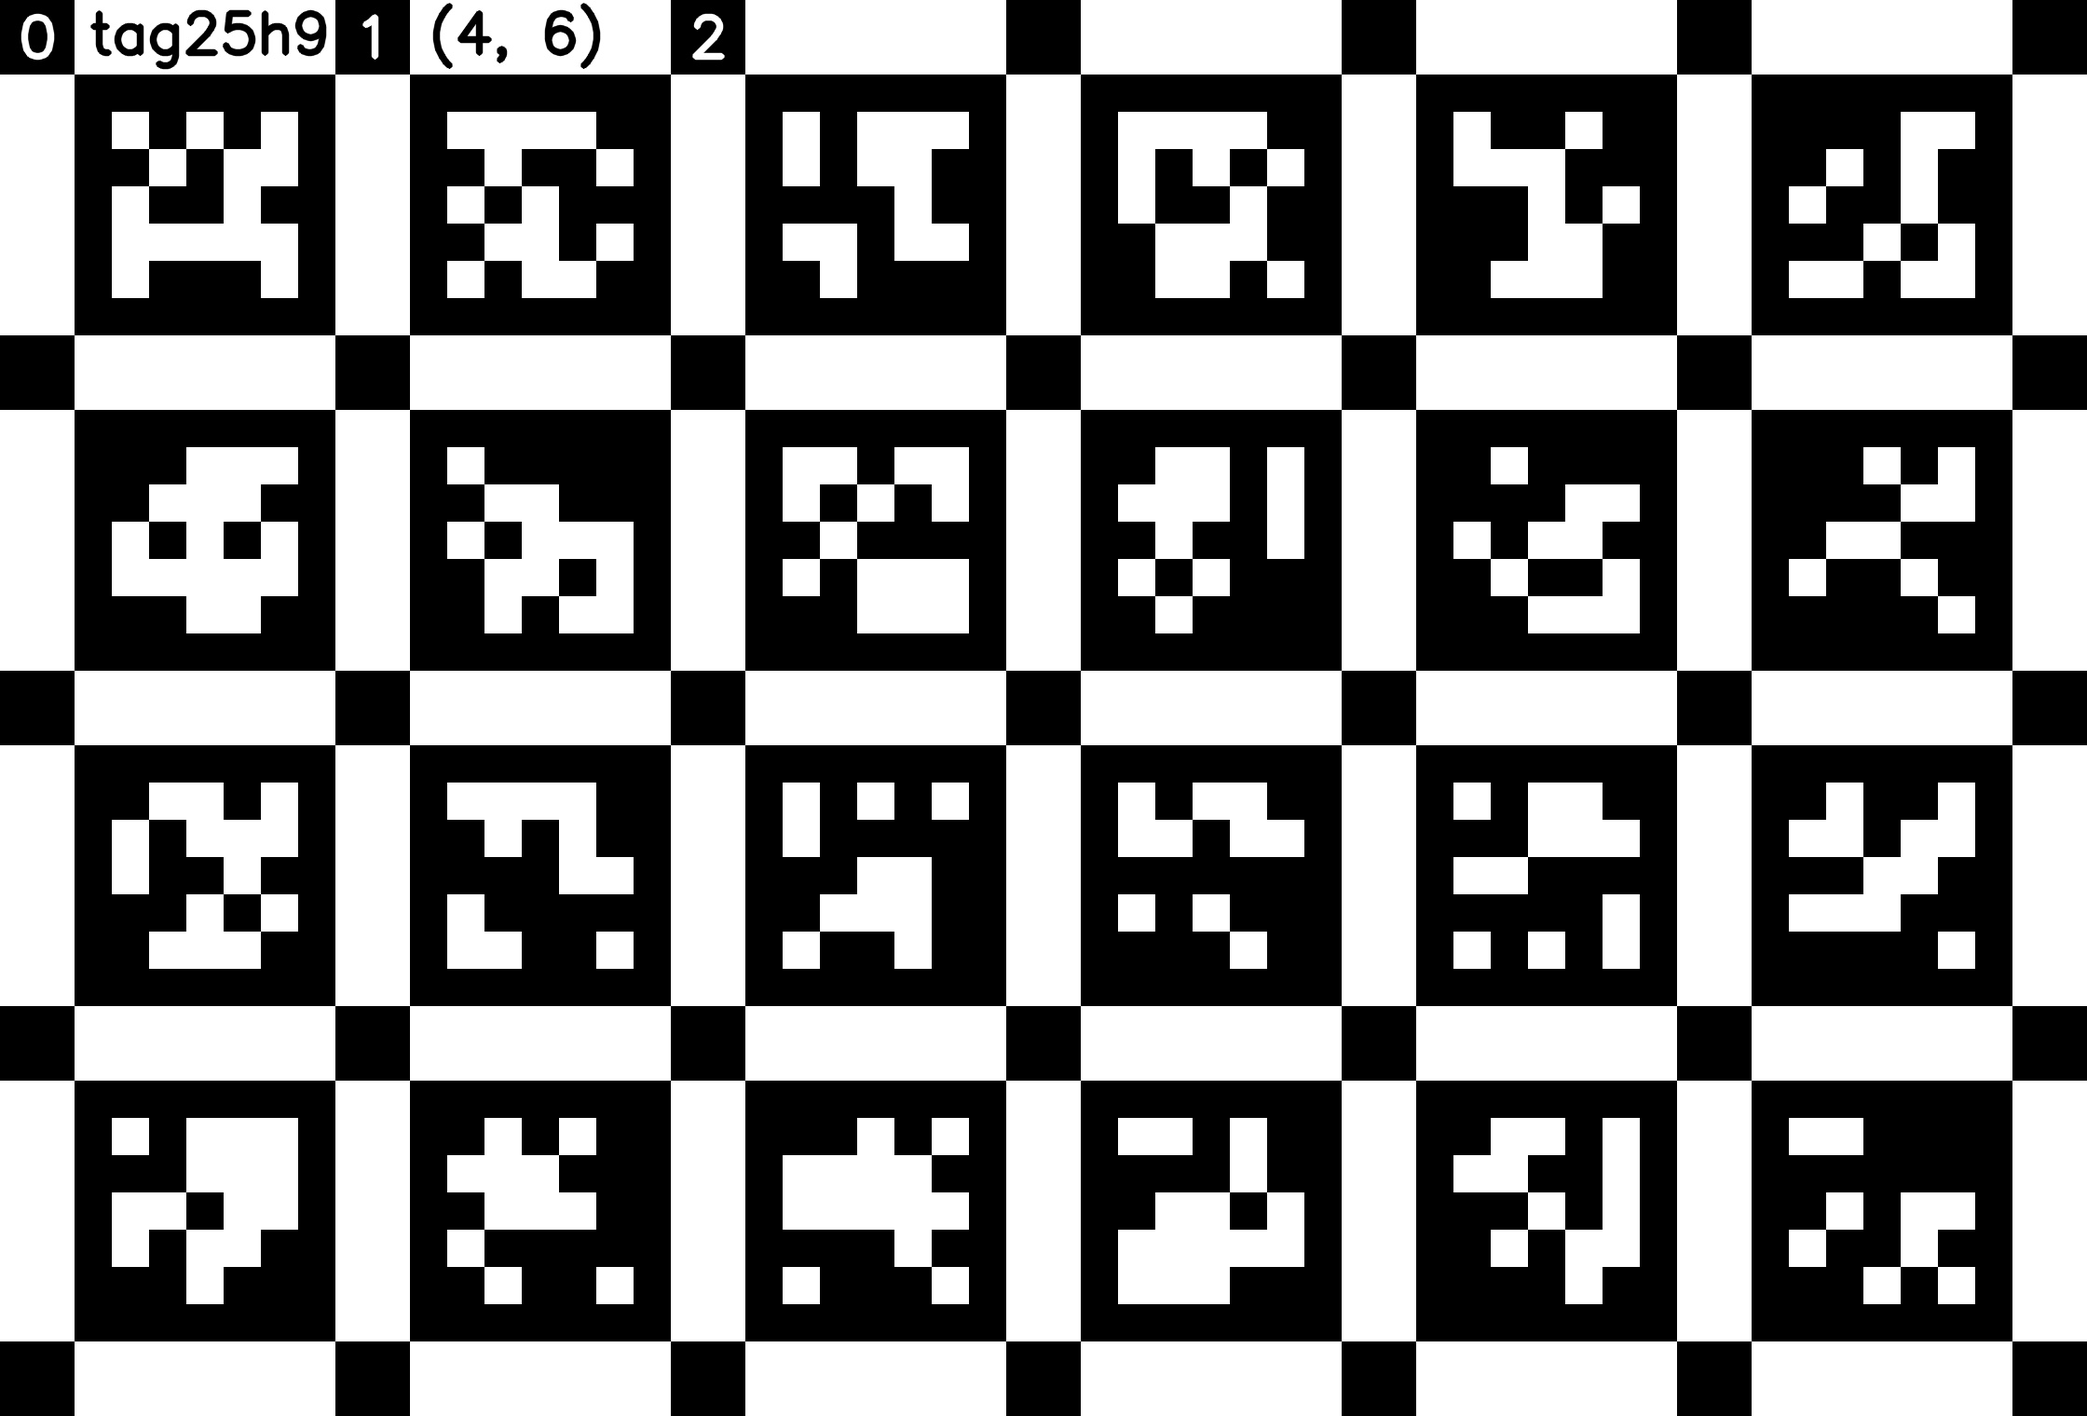
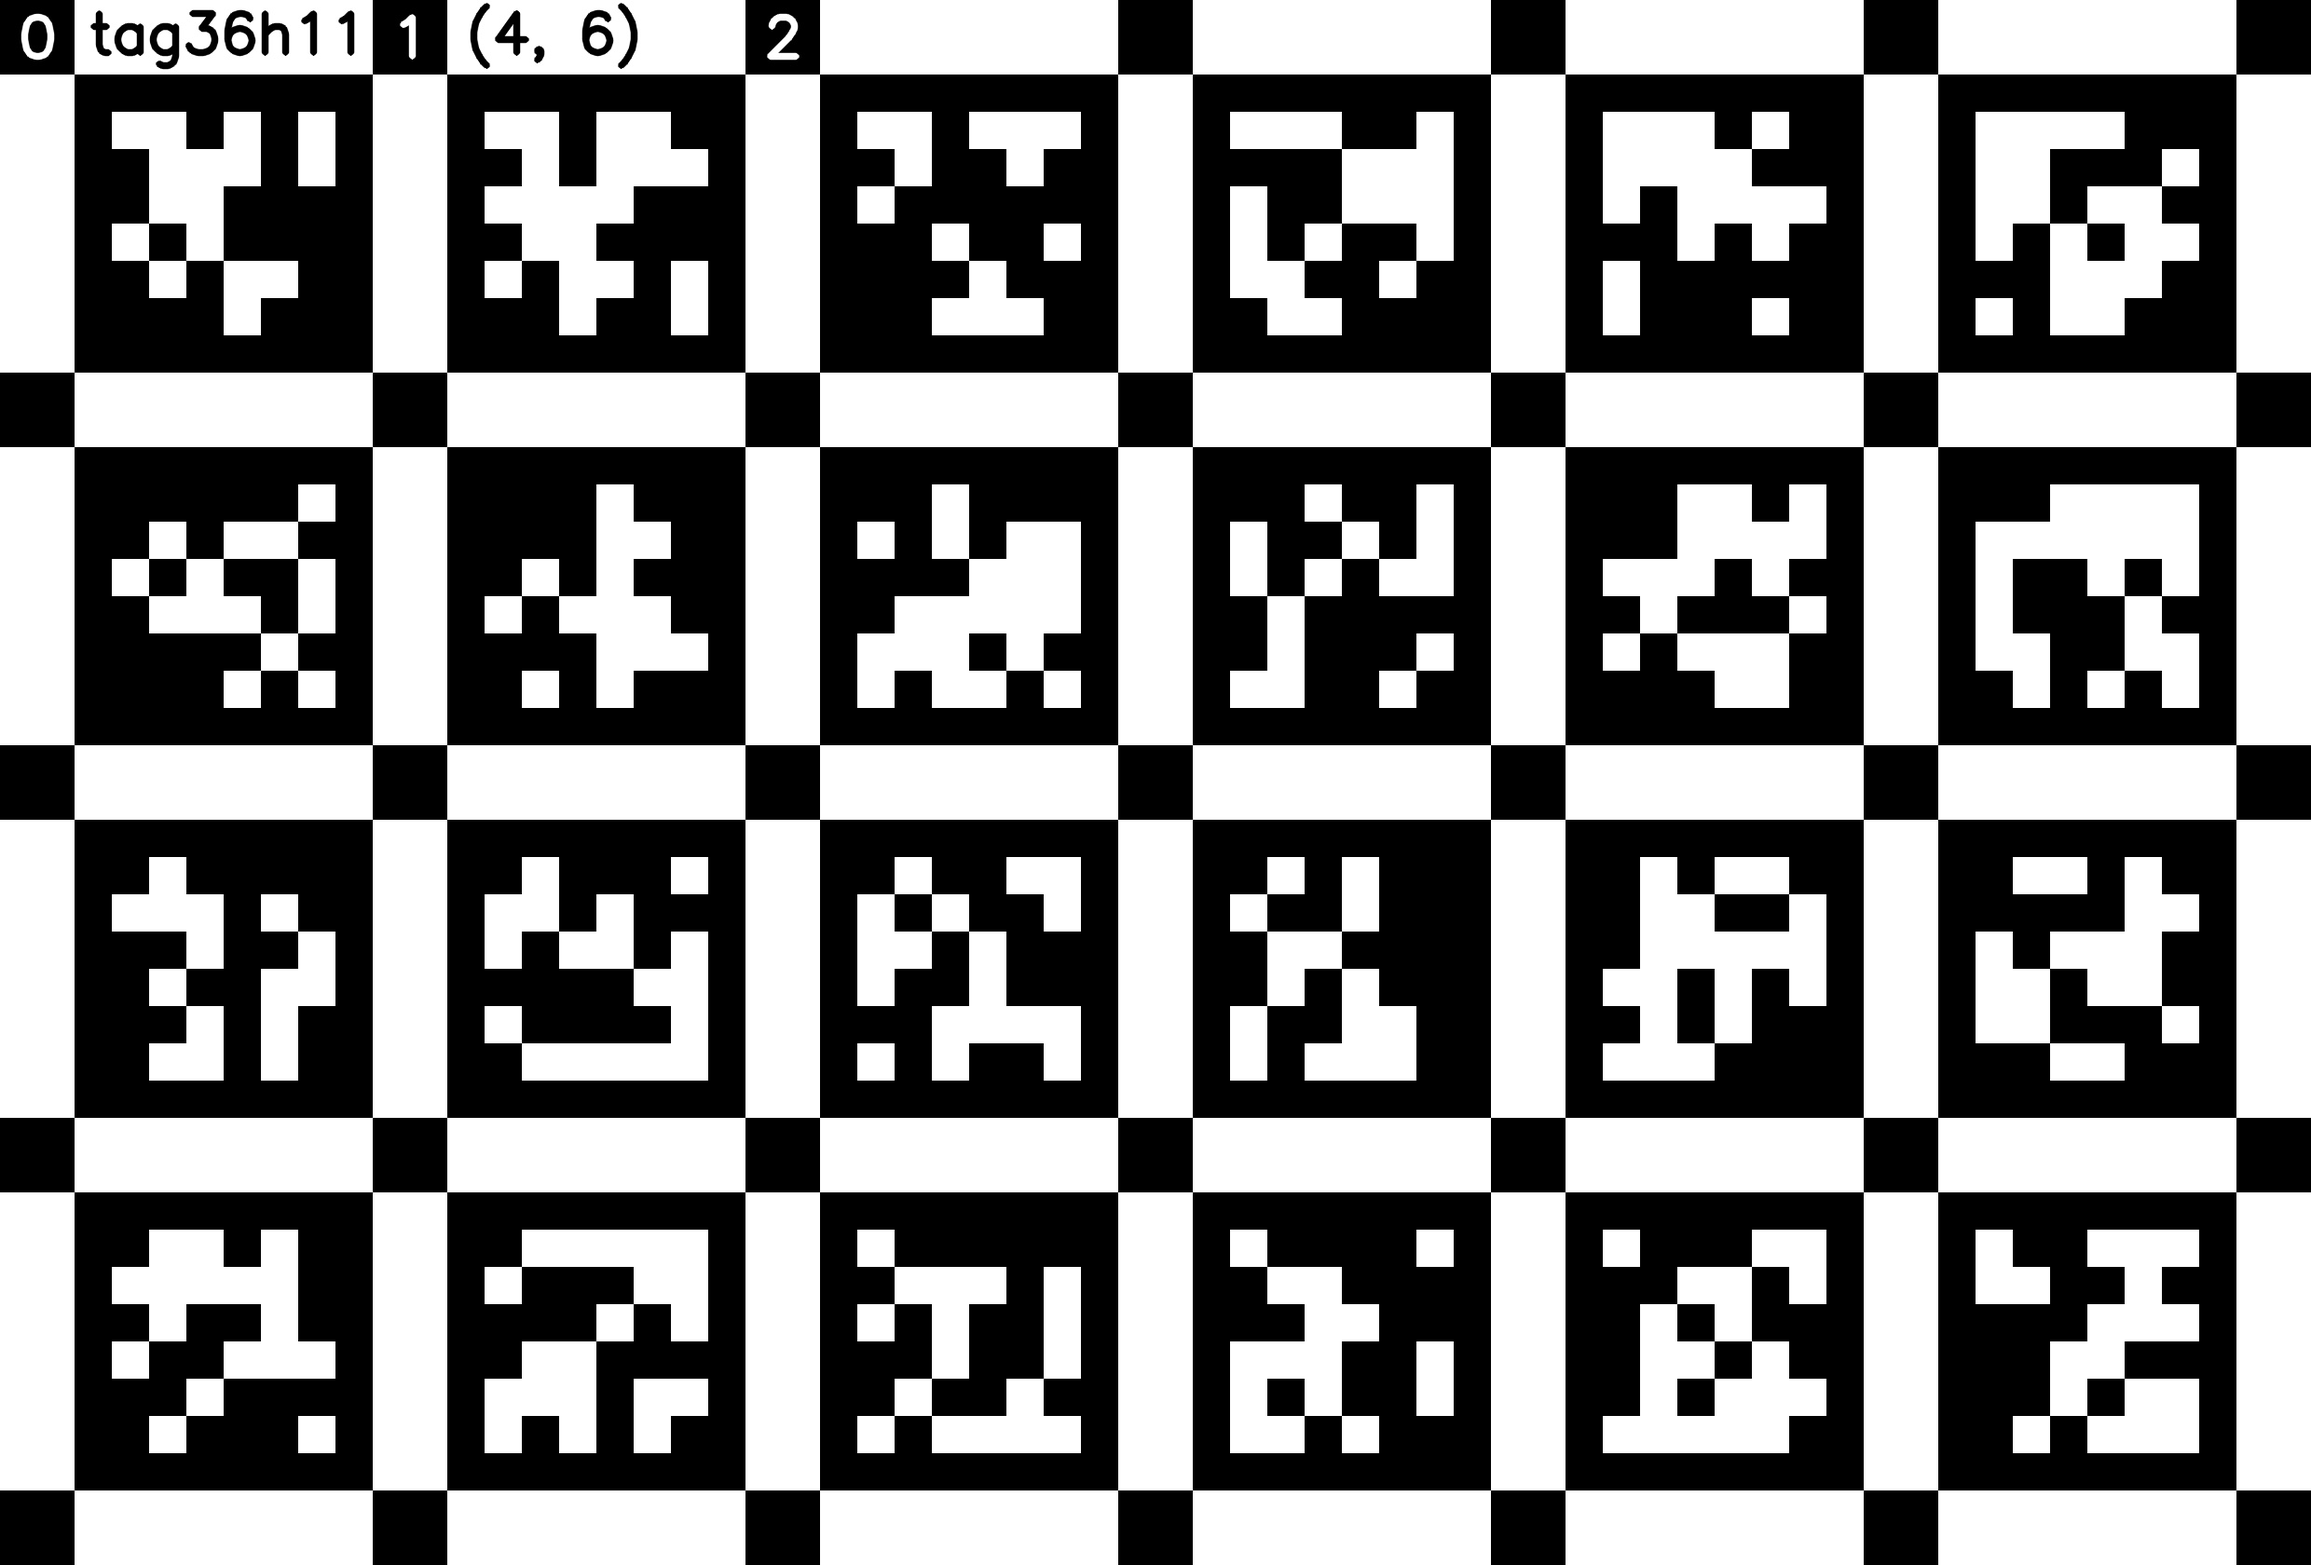
Added Gaze Detection via Pupil API

diff --git a/CameraManager.py b/CameraManager.py
@@ -14,7 +14,6 @@ class CameraManager():
         self.m_new_camera_matrix = None
         self.m_distortion_coefficient = None
         self.m_roi = None
-        self.s_calibration_file = "camera.npy"
 
         self.b_is_applying_calibration = False
         self.b_is_applying_april_detection = False
@@ -31,10 +30,21 @@ class CameraManager():
         self.qt_calibrate_timer.setSingleShot(True)
         self.qt_calibrate_timer.timeout.connect(self.calibrateCamera)
 
-        self.detector = pupil_apriltags.Detector("tag25h9")
+        self.detector = pupil_apriltags.Detector("tag36h11")
+
+        self.s_manager_name = "CameraManager"
+
+        self.world_origin_coords = [[None, None], [None, None]]
+        self.b_world_complete = False
+
+        self.r_vec = None
+        self.t_vec = None
+        self.r_mat = None
+
+        self.proj_mat = None
 
     def calibrateCamera(self):
-        print(f"CameraManager::calibrateCamera - step: {self.calibation_frame_count}")
+        print(f"{self.s_manager_name}::calibrateCamera - step: {self.calibation_frame_count}")
         try:
             ret, corners = cv2.findChessboardCorners(self.m_current_frame, (9, 6), None)
 
@@ -95,32 +105,36 @@ class CameraManager():
 
     def setCalibration(self, calibration: bool):
         self.b_is_applying_calibration = calibration
-        print(f"CameraManager::setCalibration - Calibration is now {self.b_is_applying_calibration}")
+        print(f"{self.s_manager_name}::setCalibration - Calibration is now {self.b_is_applying_calibration}")
 
     def saveCameraCalibration(self):
         if self.m_new_camera_matrix is not None and self.m_camera_matrix is not None and self.m_distortion_coefficient is not None:
-            numpy.save(self.s_calibration_file + "_camera_matrix.npy", self.m_camera_matrix, allow_pickle=True)
-            numpy.save(self.s_calibration_file + "_new_camera_matrix.npy", self.m_new_camera_matrix, allow_pickle=True)
-            numpy.save(self.s_calibration_file + "_distortion_coefficient.npy", self.m_distortion_coefficient,
+            numpy.save(self.s_manager_name + "_camera_matrix.npy", self.m_camera_matrix, allow_pickle=True)
+            numpy.save(self.s_manager_name + "_new_camera_matrix.npy", self.m_new_camera_matrix, allow_pickle=True)
+            numpy.save(self.s_manager_name + "_distortion_coefficient.npy", self.m_distortion_coefficient,
                        allow_pickle=True)
-            numpy.save(self.s_calibration_file + "_roi.npy", self.m_roi, allow_pickle=True)
-            print("CameraManager::saveCameraCalibration - Saved successfully.")
+            numpy.save(self.s_manager_name + "_roi.npy", self.m_roi, allow_pickle=True)
+            print(f"{self.s_manager_name}::saveCameraCalibration - Saved successfully.")
+            return True
         else:
-            print("CameraManager::saveCameraCalibration - Calibrate the camera before saving.")
+            print(f"{self.s_manager_name}::saveCameraCalibration - Calibrate the camera before saving.")
+            return False
 
     def loadCameraCalibration(self):
         try:
-            self.m_camera_matrix = numpy.load(self.s_calibration_file + "_camera_matrix.npy")
-            self.m_new_camera_matrix = numpy.load(self.s_calibration_file + "_new_camera_matrix.npy")
-            self.m_distortion_coefficient = numpy.load(self.s_calibration_file + "_distortion_coefficient.npy")
-            self.m_roi = numpy.load(self.s_calibration_file + "_roi.npy")
-            print("CameraManager::loadCameraCalibration - Loaded successfully.")
+            self.m_camera_matrix = numpy.load(self.s_manager_name + "_camera_matrix.npy")
+            self.m_new_camera_matrix = numpy.load(self.s_manager_name + "_new_camera_matrix.npy")
+            self.m_distortion_coefficient = numpy.load(self.s_manager_name + "_distortion_coefficient.npy")
+            self.m_roi = numpy.load(self.s_manager_name + "_roi.npy")
+            print(f"{self.s_manager_name}::loadCameraCalibration - Loaded successfully.")
+            return True
         except:
-            print("CameraManager::loadCameraCalibration - Failed to load Calibration Matrix")
+            print(f"{self.s_manager_name}::loadCameraCalibration - Failed to load Calibration Matrix")
+            return False
 
     def setAprilDetection(self, april : bool):
         self.b_is_applying_april_detection = april
-        print(f"CameraManager::setAprilDetection - Detection is now {self.b_is_applying_april_detection}")
+        print(f"{self.s_manager_name}::setAprilDetection - Detection is now {self.b_is_applying_april_detection}")
 
     def applyCalibrationMatrix(self):
         if self.b_is_applying_calibration:
@@ -133,8 +147,12 @@ class CameraManager():
 
     def detectAndShowAprilTag(self):
         # mcc = cv2.cvtColor(self.m_current_frame, cv2.COLOR_GRAY2RGB)
+        detection = self.detector.detect(self.m_current_frame)
+
+        self.world_origin_coords = numpy.zeros([4, 2], dtype = numpy.float32)
+        self.b_world_complete = False
+
         if self.b_is_applying_april_detection:
-            detection = self.detector.detect(self.m_current_frame)
             for result in detection:
                 (ptA, ptB, ptC, ptD) = result.corners
                 ptB = (int(ptB[0]), int(ptB[1]))
@@ -142,12 +160,35 @@ class CameraManager():
                 ptD = (int(ptD[0]), int(ptD[1]))
                 ptA = (int(ptA[0]), int(ptA[1]))
                 # draw the bounding box of the AprilTag detection
-                cv2.line(self.m_current_frame, ptA, ptC, (0, 255, 0), 10)
-                cv2.line(self.m_current_frame, ptB, ptD, (0, 255, 0), 10)
+                cv2.line(self.m_current_frame, ptA, ptC, (255, 255, 255), 10)
+                cv2.line(self.m_current_frame, ptB, ptD, (255, 255, 255), 10)
+
+                if len(detection) == 4:
+                    self.world_origin_coords[result.tag_id] = result.center
+
+            if len(detection) == 4:
+                world_object = numpy.array([
+                    [0, 0, 0],
+                    [0, 1, 0],
+                    [1, 0, 0],
+                    [1, 1, 0]
+                ], dtype=numpy.float32)
+                retval, self.r_vec, self.t_vec = cv2.solvePnP(world_object, self.world_origin_coords, self.m_camera_matrix, self.m_distortion_coefficient)
+                self.r_mat = numpy.array(cv2.Rodrigues(self.r_vec)[0])
+
+                #self.proj_mat = numpy.concatenate((self.r_mat, numpy.zeros([1, 3])))
+                self.proj_mat = numpy.concatenate((self.r_mat, self.t_vec.reshape(3, 1)), axis = 1)
+                self.proj_mat = numpy.concatenate((self.proj_mat, numpy.zeros([1, 4])))
+                self.proj_mat[3, 3] = 1.
+
+                print("uhm")
+
+
 
 class CoreManager(CameraManager):
     def __init__(self):
         super(CoreManager, self).__init__()
+        self.s_manager_name = "CoreManager"
         self.m_current_left = None
         self.m_current_right = None
         pass
@@ -166,4 +207,3 @@ class CoreManager(CameraManager):
 
     def getCurrentFrame(self):
         return [self.m_current_frame, self.m_current_right, self.m_current_left]
-

diff --git a/PupilCoreManager.py b/PupilCoreManager.py
@@ -3,7 +3,7 @@ Receive world camera data from Pupil using ZMQ.
 Make sure the frame publisher plugin is loaded and confugured to gray or rgb
 """
 import zmq
-from msgpack import unpackb, packb
+from msgpack import unpackb, packb, loads
 import numpy
 import cv2
 import warnings
@@ -17,8 +17,7 @@ from CameraManager import CoreManager
 class PupilCoreManager(CoreManager):
     def __init__(self):
         super(PupilCoreManager, self).__init__()
-
-        self.s_calibration_file = "PupilCore"
+        self.s_manager_name = "PupilCoreManager"
 
         self.context = zmq.Context()
         # open a req port to talk to pupil
@@ -40,6 +39,7 @@ class PupilCoreManager(CoreManager):
         self.sub.setsockopt(zmq.SNDHWM, 20)
         #self.sub.setsockopt(zmq.CONFLATE, 1)
         self.sub.setsockopt_string(zmq.SUBSCRIBE, "frame.")
+        self.sub.setsockopt_string(zmq.SUBSCRIBE, "gaze")
 
         # set subscriptions to topics
         # recv just pupil/gaze/notifications
@@ -56,8 +56,14 @@ class PupilCoreManager(CoreManager):
         self.pupil_thread = threading.Thread(target=self.ppc_thread_worker)
         self.pupil_thread.start()
 
-        self.loadCameraCalibration()
-        self.setCalibration(True)
+        if self.loadCameraCalibration():
+            self.setCalibration(True)
+
+        self.raw_x = 0
+        self.raw_y = 0
+        self.gaze_cam_3d_point = None
+        self.gaze_world_3d_point = None
+        self.confidence = 0
 
     def notify(self, notification):
         """Sends ``notification`` to Pupil Remote"""
@@ -77,7 +83,22 @@ class PupilCoreManager(CoreManager):
         in the payload dict with key: '__raw_data__' .
         """
         topic = self.sub.recv_string()
-        payload = unpackb(self.sub.recv(), raw=False)
+        payload = None
+        msg = None
+        if "gaze" in topic:
+            msg = self.sub.recv()
+            msg = loads(msg, raw=False)
+            self.raw_x, self.raw_y = msg["norm_pos"]
+            self.gaze_cam_3d_point = numpy.append(numpy.array(msg['gaze_point_3d']), numpy.array([1]))
+
+            if self.proj_mat is not None:
+                inv_proj_mat = numpy.linalg.inv(self.proj_mat)
+                cam_3d = self.gaze_cam_3d_point.T
+                self.gaze_world_3d_point = numpy.matmul(inv_proj_mat, cam_3d)
+
+            self.confidence = msg["confidence"]
+        else:
+            payload = unpackb(self.sub.recv(), raw=False)
         extra_frames = []
         while self.sub.get(zmq.RCVMORE):
             extra_frames.append(self.sub.recv())
@@ -96,7 +117,26 @@ class PupilCoreManager(CoreManager):
 
     def captureCurrentFrame(self):
         self.detectAndShowAprilTag()
+        self.showGaze()
         self.applyCalibrationMatrix()
+
+    def showGaze(self):
+        # draw confidence circle
+        cv2.circle(self.m_current_frame, (int(self.m_current_frame.shape[1] * self.raw_x),
+                                          self.m_current_frame.shape[0] - int(
+                                              self.m_current_frame.shape[0] * self.raw_y)),
+                              radius = int(15 * (2 - self.confidence)),
+                              color = (255, 255, 255),
+                              thickness = 3
+                              )
+
+        # draw gaze circle
+        cv2.circle(self.m_current_frame, (int(self.m_current_frame.shape[1] * self.raw_x),
+                                          self.m_current_frame.shape[0] - int(
+                                              self.m_current_frame.shape[0] * self.raw_y)),
+                   radius=10,
+                   color=(255, 255, 255),
+                   thickness=cv2.FILLED)
 
     def ppc_thread_worker(self):
         while True:

diff --git a/test.py b/test.py
@@ -1,0 +1,39 @@
+"""
+Receive data from Pupil using ZMQ.
+"""
+import zmq
+from msgpack import loads
+
+context = zmq.Context()
+# open a req port to talk to pupil
+addr = "127.0.0.1"  # remote ip or localhost
+req_port = "50020"  # same as in the pupil remote gui
+req = context.socket(zmq.REQ)
+req.connect("tcp://{}:{}".format(addr, req_port))
+# ask for the sub port
+req.send_string("SUB_PORT")
+sub_port = req.recv_string()
+
+# open a sub port to listen to pupil
+sub = context.socket(zmq.SUB)
+sub.connect("tcp://{}:{}".format(addr, sub_port))
+
+# set subscriptions to topics
+# recv just pupil/gaze/notifications
+#sub.setsockopt_string(zmq.SUBSCRIBE, "pupil.")
+sub.setsockopt_string(zmq.SUBSCRIBE, 'gaze')
+# sub.setsockopt_string(zmq.SUBSCRIBE, 'notify.')
+# sub.setsockopt_string(zmq.SUBSCRIBE, 'logging.')
+# or everything:
+# sub.setsockopt_string(zmq.SUBSCRIBE, '')
+
+
+while True:
+    try:
+        topic = sub.recv_string()
+        msg = sub.recv()
+        msg = loads(msg, raw=False)
+        print(msg["norm_pos"])
+        #print("\n{}: {}".format(topic, msg))
+    except KeyboardInterrupt:
+        break

diff --git a/IDSManager.py b/IDSManager.py
@@ -12,7 +12,7 @@ import numpy
 class IDSManager(CameraManager):
     def __init__(self):
         super().__init__()
-        self.s_calibration_file = "IDS"
+        self.s_manager_name = "IDSManager"
         ids_peak.Library.Initialize()
 
         # Initialize and find device
@@ -53,8 +53,8 @@ class IDSManager(CameraManager):
         self.node_map_remote_device.FindNode("TLParamsLocked").SetValue(1)
         self.node_map_remote_device.FindNode("AcquisitionStart").Execute()
 
-        self.loadCameraCalibration()
-        self.setCalibration(True)
+        if self.loadCameraCalibration():
+            self.setCalibration(True)
 
     def captureCurrentFrame(self):
         buffer = self.data_stream.WaitForFinishedBuffer(5000)

diff --git a/PupilCalibManager.py b/PupilCalibManager.py
@@ -41,7 +41,7 @@ class PupilCalibManager(QWidget):
 
 
         self.update_frame_timer = QTimer()
-        self.update_frame_timer.start(20)
+        self.update_frame_timer.start(10)
         self.update_frame_timer.timeout.connect(self.updateFrame)
 
         self.world_calibrate_button = QPushButton("World Calibrate")

diff --git a/generate_apriltag.py b/generate_apriltag.py
@@ -4,7 +4,7 @@ from moms_apriltag import ApriltagBoard
 
 import cv2
 
-board = ApriltagBoard.create(4,6,"tag25h9", 0.02)
+board = ApriltagBoard.create(4,6,"tag36h11", 0.02)
 tgt = board.board
 
 # filename = "apriltag_target.png"
